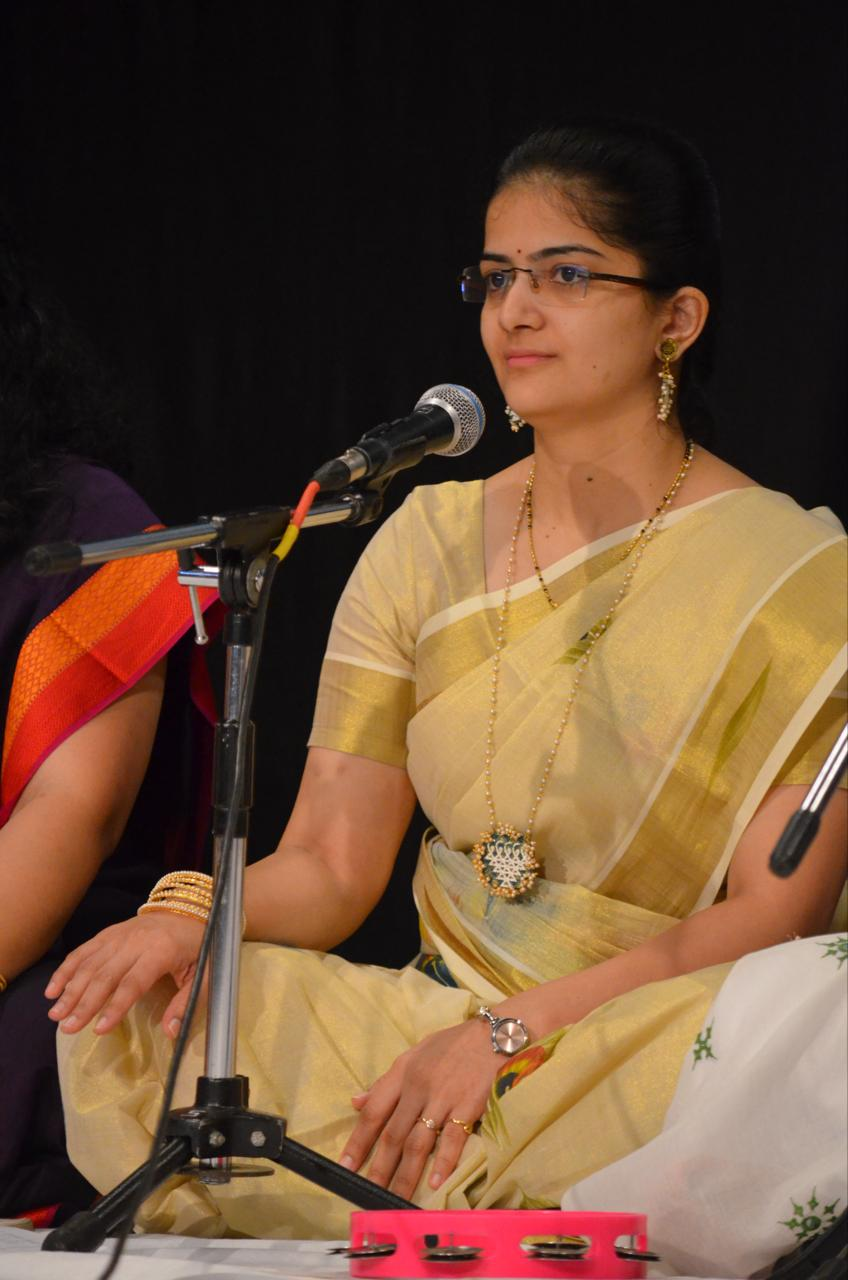
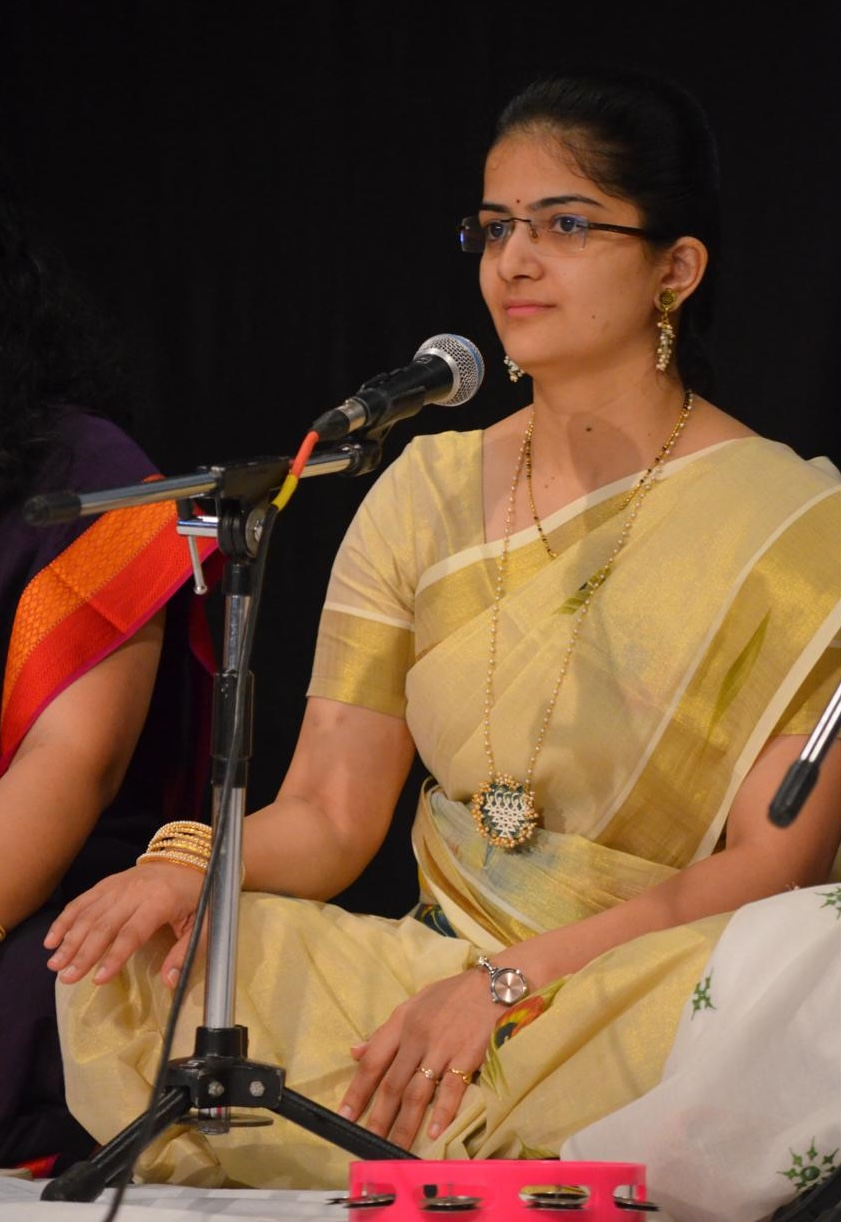
updated guru pictures

diff --git a/about.html b/about.html
@@ -643,7 +643,7 @@
                   <img
                     src="static/images/tabla-professor-2.jpeg"
                     alt="Dilip Puranik"
-                    class="absolute inset-0 w-full h-full object-cover opacity-90 group-hover:opacity-100 transition-opacity duration-500"
+                    class="absolute inset-0 w-full h-full object-cover object-top opacity-90 group-hover:opacity-100 transition-opacity duration-500"
                   />
                   <div
                     class="absolute inset-0 bg-gradient-to-t from-black via-transparent to-transparent"
@@ -755,7 +755,7 @@
                   <img
                     src="static/images/sneha-pathak.jpeg"
                     alt="Smt. Sneha Pathak"
-                    class="absolute inset-0 w-full h-full object-cover opacity-90 group-hover:opacity-100 transition-opacity duration-500"
+                    class="absolute inset-0 w-full h-full object-cover object-top opacity-90 group-hover:opacity-100 transition-opacity duration-500"
                   />
                   <div
                     class="absolute inset-0 bg-gradient-to-t from-black via-transparent to-transparent"
